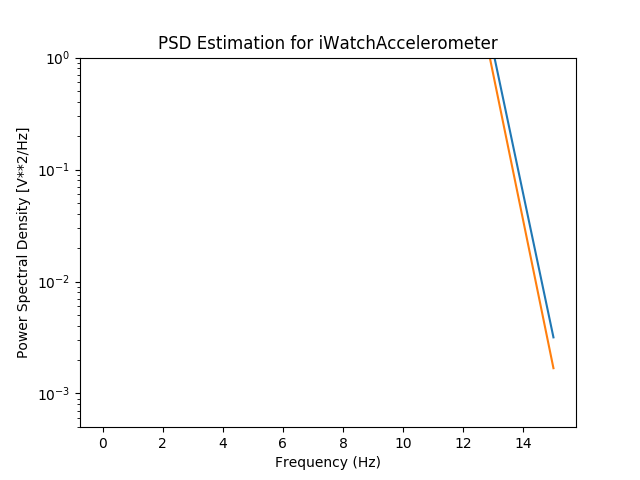
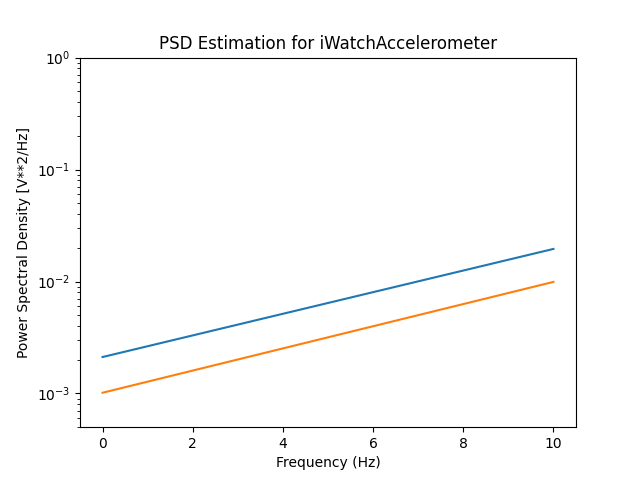
uM v sus bode plot results

diff --git a/dev/velocity_estimation/user_velocity.py b/dev/velocity_estimation/user_velocity.py
@@ -37,9 +37,9 @@ def power_spectral_density(sensor_array, sensor):
     Plot the PSD of the sensor data to estimate filter with cutoff freq.
     """
     # Calculate PSD using Welch's PSD Algorithm
-    sensor_overlap = (sensor_array.size/2)
+    sensor_overlap = (sensor_array.shape[1]/2)
     f_sample = 30 # 30 Hz sampling freq TODO: change to 100 Hz for final experiment
-    freq, p_density = welch(sensor_array, f_sample, window='hann')#, noverlap=sensor_overlap) 
+    freq, p_density = welch(sensor_array[0:802, 1:4], f_sample, window='hann', noverlap=sensor_overlap)
     print("Calculated PSD for " + sensor + ".")
 
     # Plot the PSD and save to results
@@ -83,25 +83,31 @@ def make_matrices():
     """
     data_dir = get_data_directory()
 
+    print("Generating iPhone Array...")
     iphone_csv_array = genfromtxt(os.path.join(data_dir, 'iphoneIMU.csv'), delimiter=",", skip_header=1)
+    print("Generating iWatch Array...")
     iwatch_csv_array = genfromtxt(os.path.join(data_dir, 'iWatchIMU.csv'), delimiter=",", skip_header=1)
 
     ##################### create accel, gyro, magnetometer numpy arrays: iPhone #####################
     # accel
     accel_time_col = 18
     accel_z_col = 22
+    print("Generating iPhone Accel Array...")
     iphone_accel = gen_sensor_array(accel_time_col, accel_z_col, iphone_csv_array)    
 
     # gyro
     gyro_time_col = 22
     gyro_z_col = 26
+    print("Generating iPhone Gyro Array...")
     iphone_gyro = gen_sensor_array(gyro_time_col, gyro_z_col, iphone_csv_array)  
 
     ##################### create accel, gyro, magnetometer numpy arrays: iWatch #####################
     # accel
+    print("Generating iWatch Accel Array...")
     iwatch_accel = gen_sensor_array(accel_time_col, accel_z_col, iwatch_csv_array)
 
     # gyro
+    print("Generating iWatch Gyro Array...")
     iwatch_gyro = gen_sensor_array(gyro_time_col, gyro_z_col, iwatch_csv_array)  
 
     # finish
